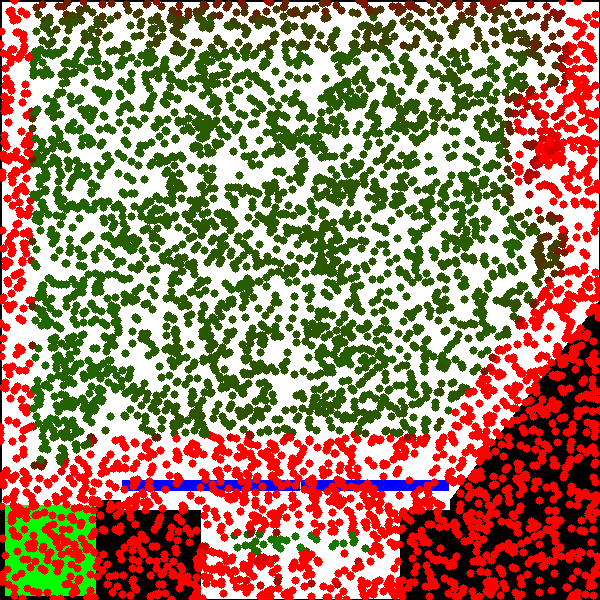
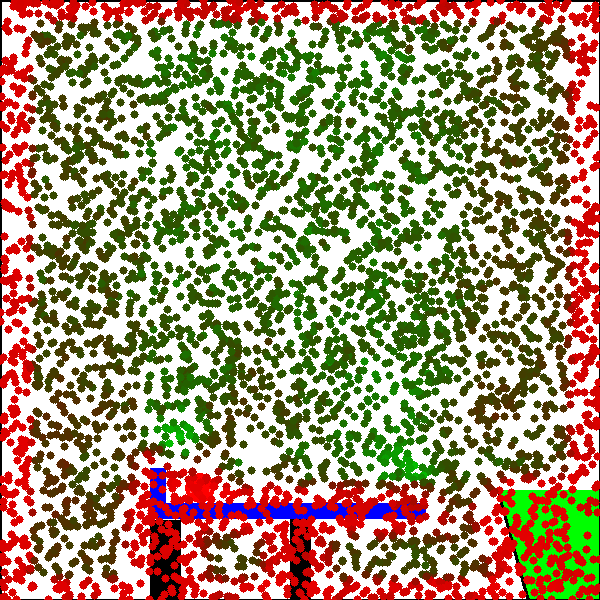
fix some mistake

diff --git a/ssup_simulator/test.py b/ssup_simulator/test.py
@@ -8,8 +8,9 @@ from pyGameWorld.viewer import drawWorld, loadFromDict
 from ssup_simulator import RewardCNN
 from tqdm import trange
 
-model_ckpt = './bridge_ckpt/bridge_50.pth'
-scene_json = './Trials/Original/Bridge.json'
+model_ckpt = './catapult_ckpt/catapult_50.pth'
+scene_json = './Trials/Original/Catapult.json'
+scene = 'catapult'
 tool_choice = 1
 N_sample = 5000
 top_k = False
@@ -53,9 +54,9 @@ with open(file_dir, 'r') as f:
         if not top_k:
             cv2.circle(image, center=(int(600 * x), 599 - int(600 * y)), radius=4, color=(0, int(((np.clip(reward.cpu().item(), -1, 1) + 1) * 0.5) ** 2 * 255), int(((-np.clip(reward.cpu().item(), -1, 1) + 1) * 0.5) ** 2 * 255)), thickness=-1)
     if not top_k:
-        cv2.imwrite('./vis_catapult.png', image)
+        cv2.imwrite(f'./vis_{scene}.png', image)
     else:
         index = np.argsort(-reward_list)[:k]
         for idx in index:
             cv2.circle(image, center=(position_list[idx][0], 599 - position_list[idx][1]), radius=4, color=(0, int(((np.clip(reward_list[idx], -1, 1) + 1) * 0.5) ** 2 * 255), int(((-np.clip(reward_list[idx], -1, 1) + 1) * 0.5) ** 2 * 255)), thickness=-1)
-        cv2.imwrite('./max_catapult.png', image)
+        cv2.imwrite(f'./max_{scene}.png', image)
